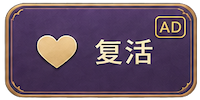
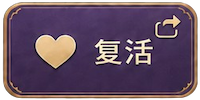
feat: 分享复活机制
- 点击复活按钮拉起 wx.shareAppMessage 分享给好友
- wx.onShow 检测分享界面停留时间，≥2.5s 判定成功并执行复活
- 每局限复活1次，reviveUsed 随存档保存

Changed region(s): [[0.0, 0.0, 0.99, 0.99], [0.45, 0.36, 0.78, 0.66], [0.15, 0.33, 0.39, 0.69]]

diff --git a/game.js b/game.js
@@ -10,6 +10,34 @@ const { CloudStorageManager } = require('./js/cloud_storage');
 // 获取 Canvas 上下文
 wx.onShow(() => {
   console.log('[Game] 切回前台');
+
+  // === 分享复活检测 ===
+  if (shareReviveState && shareReviveState.resolving && game && game.state === 'gameover') {
+    const stayed = Date.now() - shareReviveState.startTime;
+    console.log('[ShareRevive] 分享界面停留时间:', stayed, 'ms');
+    if (stayed >= 2500) {
+      console.log('[ShareRevive] 判定分享成功，执行复活');
+      game._closingGameOver = true;
+      game._closeStartTime = Date.now();
+      setTimeout(() => {
+        if (game && game.state === 'gameover') {
+          game.revive();
+          if (renderer.gameOverRenderer) {
+            renderer.gameOverRenderer.animStartTime = null;
+            renderer.gameOverRenderer.lastGameOverReason = null;
+          }
+          game.hintToast = { text: '复活成功！', expireAt: Date.now() + 2000 };
+        }
+      }, 200);
+    } else {
+      console.log('[ShareRevive] 分享取消或停留时间不足');
+      if (game) {
+        game._reviveBtnPressed = false;
+        game.hintToast = { text: '分享后才可以复活哦~', expireAt: Date.now() + 2000 };
+      }
+    }
+    shareReviveState = null;
+  }
 });
 
 wx.onHide(() => {
@@ -92,6 +120,9 @@ ctx.scale(scaleDpr, scaleDpr);
 // 游戏全局状态
 let game = null;
 const renderer = new Renderer(ctx, WIDTH, HEIGHT);
+
+// 分享复活状态
+let shareReviveState = null; // { startTime: number, resolving: boolean }
 
 // 云存储管理器
 const cloudStorage = new CloudStorageManager('cloud1-d3gecbtu10e4035de');
@@ -1327,19 +1358,20 @@ function handleInput(x, y) {
     if (renderer.gameOverRenderer && renderer.gameOverRenderer.reviveBtnRect) {
       const reviveHit = renderer.hitTest(x, y, [renderer.gameOverRenderer.reviveBtnRect]);
       if (reviveHit) {
+        if (game.reviveUsed) {
+          game.hintToast = { text: '本局已使用过复活', expireAt: Date.now() + 2000 };
+          return;
+        }
         vibrate();
         game._reviveBtnPressed = true;
         game._reviveBtnPressTime = Date.now();
-        setTimeout(() => {
-          game._reviveBtnPressed = false;
-          game._closingGameOver = true;
-          game._closeStartTime = Date.now();
-          setTimeout(() => {
-            game.revive();
-            renderer.gameOverRenderer.animStartTime = null;
-            renderer.gameOverRenderer.lastGameOverReason = null;
-          }, 200);
-        }, 150);
+
+        // 拉起分享复活
+        shareReviveState = { startTime: Date.now(), resolving: true };
+        wx.shareAppMessage({
+          title: `我在 Word Balatro 挑战到了第 ${game.round} 关，快来帮我！`,
+          query: `from=revive&round=${game.round}&score=${game.totalScore}`
+        });
         return;
       }
     }

diff --git a/js/game.js b/js/game.js
@@ -604,6 +604,7 @@ class Game {
       this.baseHandSize = 9;
       this.totalScore = 0;
       this.gameOverReason = null;
+      this.reviveUsed = false;
       this.roundScores = [];
       this._shuffledSkills = shuffleSkills([...SKILL_POOL]);
       console.log('初始化SKILL_NAME=[' + this._shuffledSkills.map(s => s.skill).join(',') + ']');
@@ -792,6 +793,7 @@ class Game {
     this._newWitchCardThisShop = null;
     this._cardBookIconFlashStart = null;
     this.gameOverReason = p.gameOverReason || null;
+    this.reviveUsed = p.reviveUsed || false;
     this.target = p.target;
     this._maxHandSize = p._maxHandSize;
     this._seedMinLen = p._seedMinLen;
@@ -2000,6 +2002,8 @@ class Game {
     this._reviveBtnPressed = false;
     this._reviveBtnPressTime = null;
     this._showingRankList = false;
+    this.reviveUsed = true;
+    if (this.storageManager) this.storageManager.saveProgress();
   }
 
   nextRound() {

diff --git a/js/storage.js b/js/storage.js
@@ -110,6 +110,7 @@ class StorageManager {
       _cardBookGuideText2StartTime: game._cardBookGuideText2StartTime,
       _cardBookGuideExitStartTime: game._cardBookGuideExitStartTime,
       letterUpgrades: [...letterUpgrades.entries()],
+      reviveUsed: game.reviveUsed || false,
       timestamp: Date.now(),
       version: 1
     };
